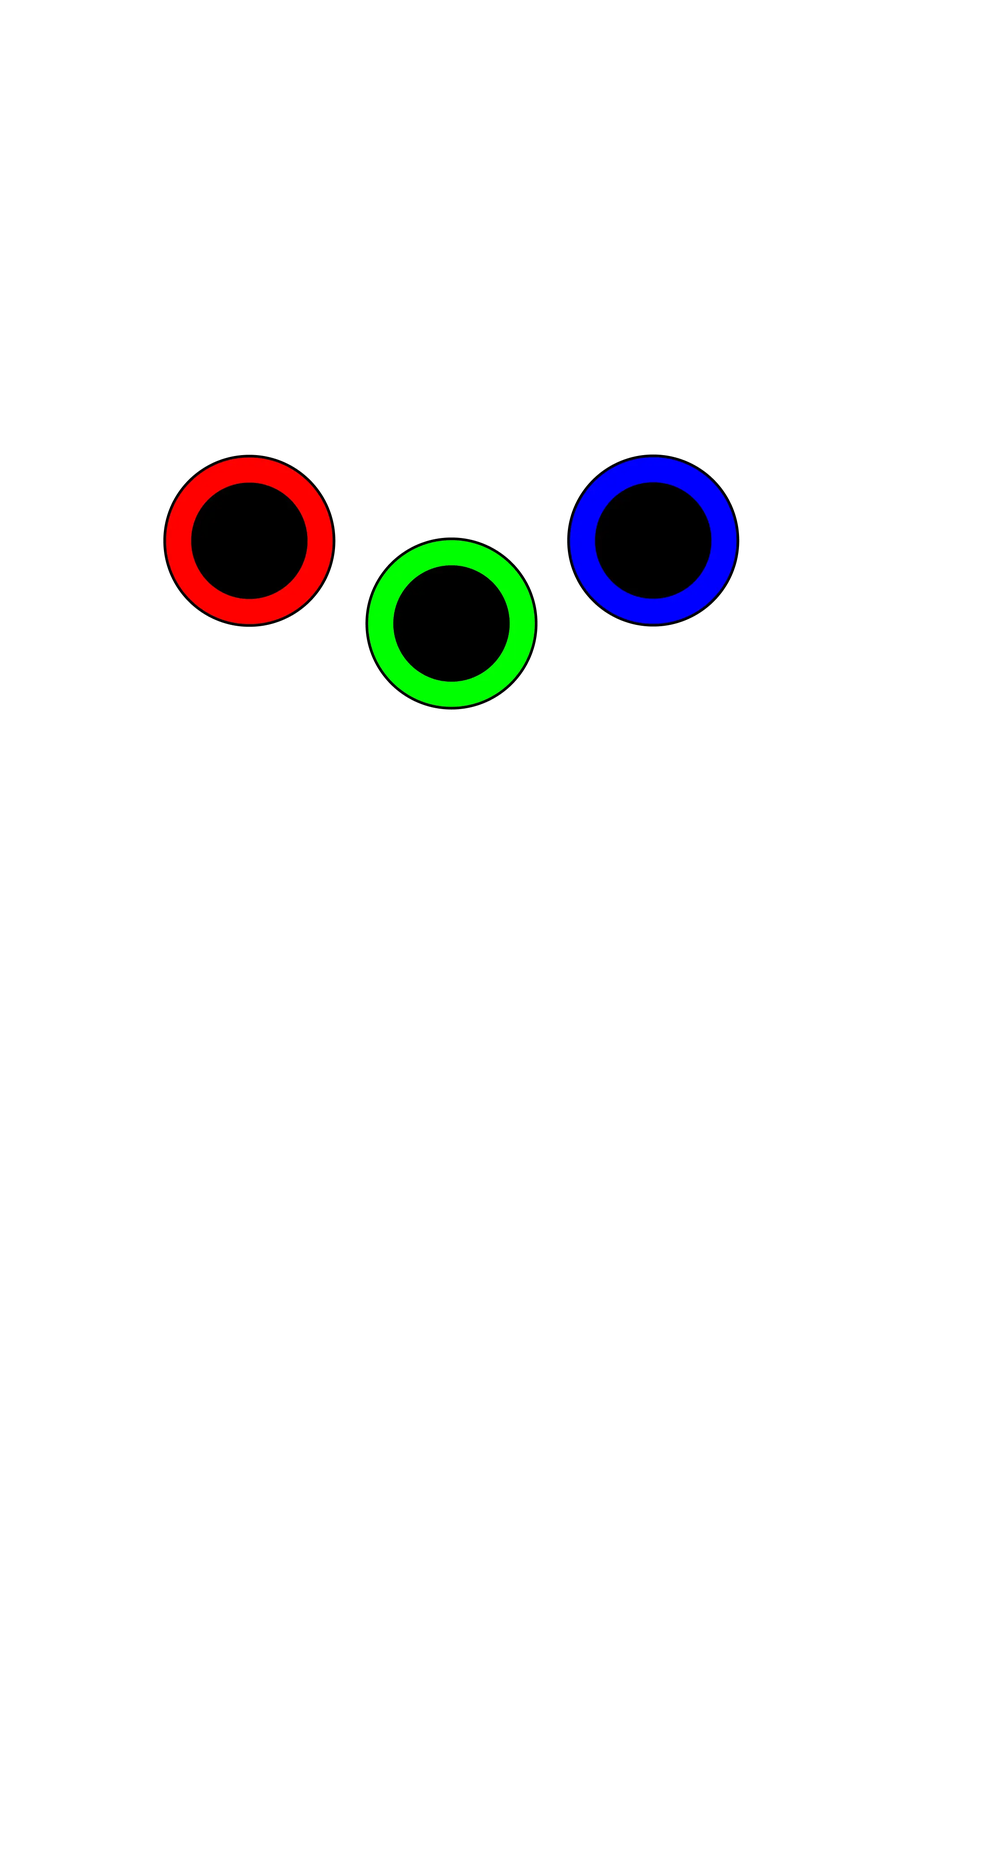
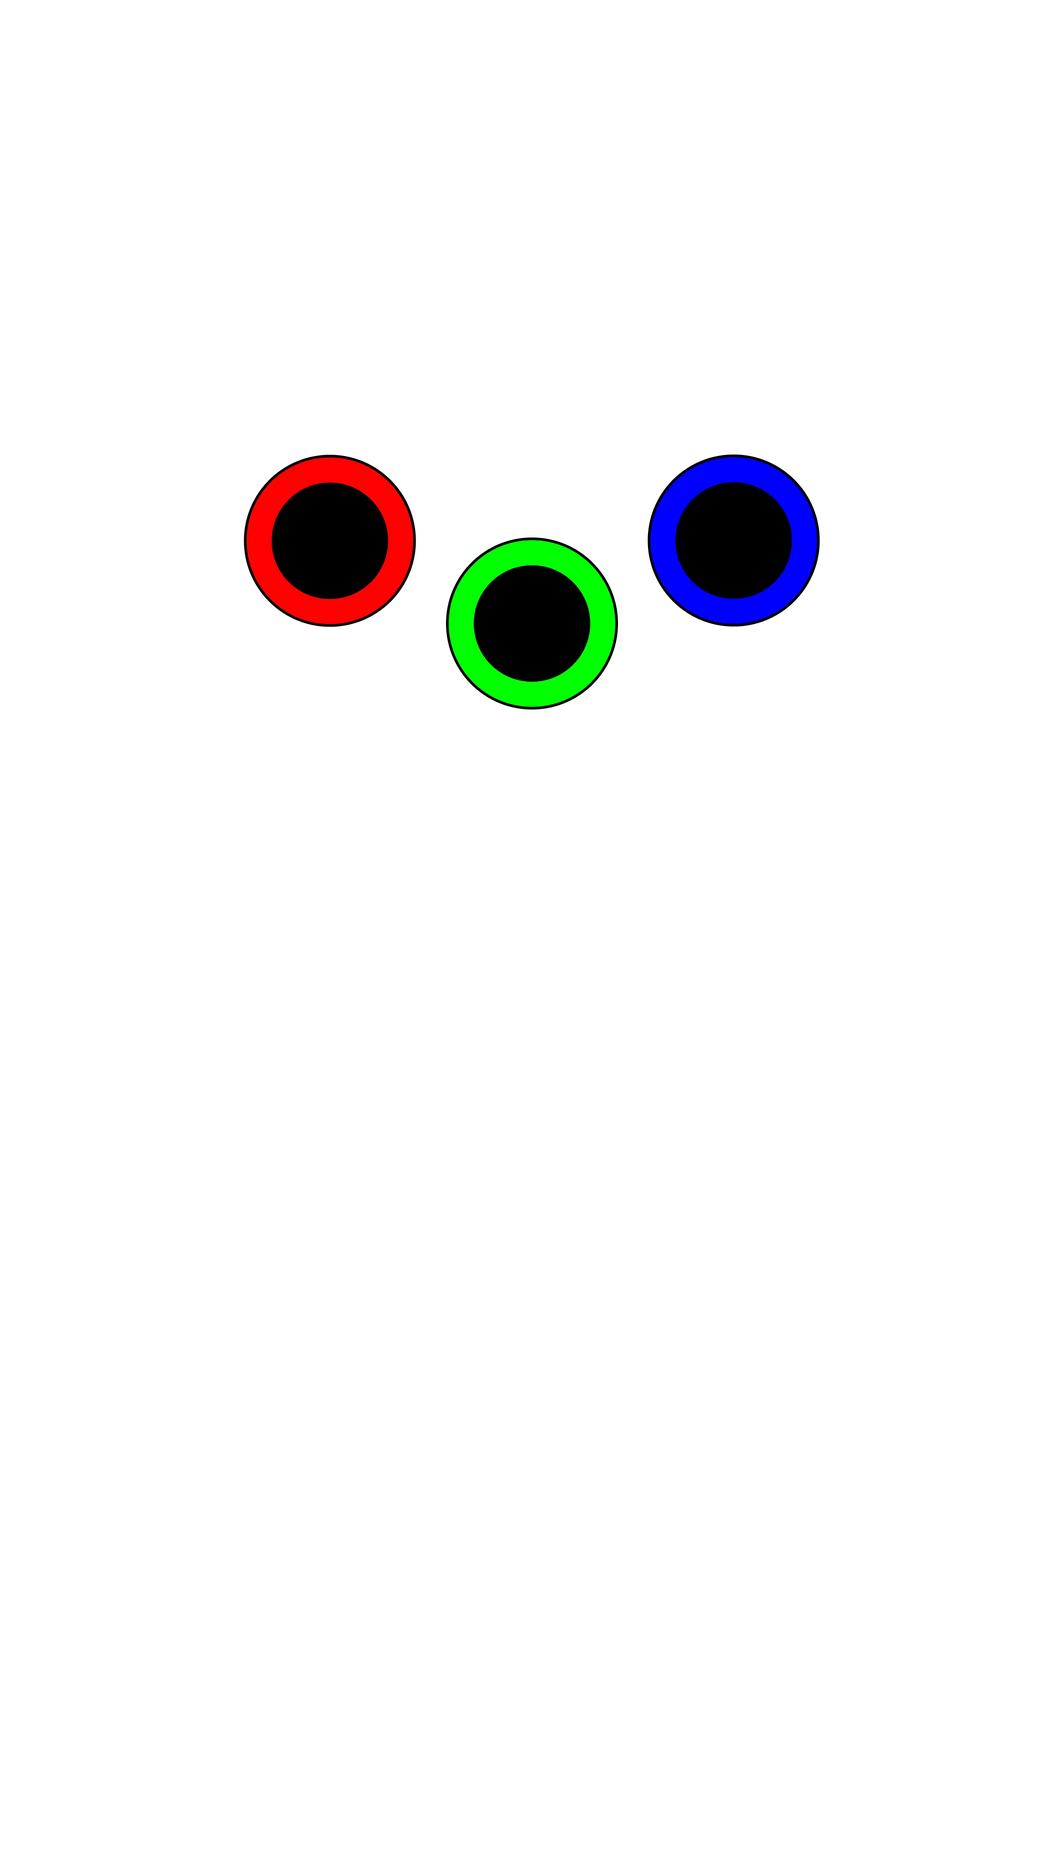
Layers overhauls, realigned Things, added exp light layer

Changed region(s): [[0.1548, 0.2183, 0.7738, 0.4055]]

diff --git a/src/lib/tables/now/index.ts b/src/lib/tables/now/index.ts
@@ -39,8 +39,8 @@ export default class Now extends Table {
     this.things = {},
 
     this.config = {
-      bounds: new Rect(-256, 970, 256, 0),
-      ballRad: 13,
+      bounds: new Rect(-256, 898, 256, 0),
+      ballRad: 16,
       gravity: 2000,
     };
 
@@ -112,9 +112,9 @@ export default class Now extends Table {
     // Vars
 
     let ballRad     = this.config.ballRad;
-    let lampRad     = 12;
+    let lampRad     = 10;
     let rolloverRad = 6;
-    let postRad     = 8;
+    let postRad     = 7;
     let targetRad   = 2;
 
 
@@ -125,10 +125,10 @@ export default class Now extends Table {
     const W = this.config.bounds.w;
     const H = this.config.bounds.h;
 
-    const TL = L + 10;       // leftmost position excluding outer wall
-    const TR = R - 54;       // rightmost position excluding chute
+    const TL = L + 48;       // leftmost position excluding outer wall
+    const TR = R - 50;       // rightmost position excluding chute
     const TW = TR - TL;      // width of playfield
-    const M  = L + TW/2 + 11; // middle line of playfield (fudged)
+    const M  = 0;            // middle of playfield
 
     const BALL_DROP_POSITION = Vec2.fromXY(TR + ballRad, 120);
 
@@ -147,47 +147,47 @@ export default class Now extends Table {
 
     //
     // Playfield Elements
-    // TODO: adjust positioning to correct for perspective in the graphic
     //
 
     // Outer walls
 
-    let greatRadius = (W - 10)/2
+    let greatRadius = (W - 48)/2
 
-    Collider(`topwall`,             Arc.at(0, TT - greatRadius + 5, 5, greatRadius, TAU*8/16, TAU*0/16));
-    Collider(`leftwall`,            Capsule.from(TL - 5, 0, TL - 5, TT - greatRadius, 5));
-    Collider(`rightwall_inner_btm`, Capsule.from(TR + 5, 0, TR + 5, 440, 5));
-    Collider(`rightwall_inner_top`, Capsule.from(TR + 5, 517, TR + 5, TT - greatRadius, 5));
-    Collider(`rightwall_inner_arc`, Arc.at(TR - 188, TT - greatRadius, 5, 193, TAU*1/8, 0));
+    Collider(`stopper`, Capsule.at(TL + 52, TT - 92, 15, 9, TAU*13/32), 2);
+    Gate(`launch_gate`, Capsule.at(TR - 28, TT - 88, 8, 35, TAU*23/63), Vec2.at(1, -1).norm());
+
+    Collider(`topwall`,             Arc.at(19, TT - greatRadius + 5, 5, greatRadius, TAU*8/16, TAU*0/16));
+    Collider(`leftwall`,            Capsule.from(TL - 5, 0, TL - 5, TT - greatRadius + 5, 5));
+    Collider(`rightwall_inner_btm`, Capsule.from(TR + 5, 0, TR + 5, 408, 5));
+    Collider(`rightwall_inner_top`, Capsule.from(TR + 5, 477, TR + 5, TT - greatRadius + 5, 5));
+    Collider(`rightwall_inner_arc`, Arc.at(TR - 173, TT - greatRadius + 5, 5, 178, TAU*1/8, 0));
 
 
     // Launch chute
 
-    let launcher = Launcher(`launcher`, Capsule.at(R - 30, 120, ballRad+2, 36), Vec2.at(0, LAUNCH_STRENGTH));
-    Collider(`chute_wall`,   Capsule.from(R - 5, 0, R - 5, TT - greatRadius, 5));
-    Collider(`chute_bottom`, Capsule.at(R - 30, 90, 9, 20, TAU/4));
-    Collider(`stopper`, Capsule.at(TL + 56, TT - 100, 16, 10, TAU*13/32), 2);
-    Gate(`launch_gate`, Capsule.at(TR - 32, TT - 97, 8, 32, TAU*23/63), Vec2.at(1, -1).norm());
+    let launcher = Launcher(`launcher`, Capsule.at(R - 25, 105, ballRad+2, 26), Vec2.at(0, LAUNCH_STRENGTH));
+    Collider(`chute_wall`,   Capsule.from(R - 5, 0, R - 5, TT - greatRadius + 5, 5));
+    Collider(`chute_bottom`, Capsule.at(R - 25, 82, 8, 26, TAU/4));
 
 
     // Upper lanes
 
-    let laneStride = 52;
+    let laneStride = 48;
 
     let laneRollovers = [];
     let laneLamps     = [];
 
     for (let z = -2; z <= 2; z++) {
       let x = M + laneStride * z;
-      Collider(`upper_lane_guard_${z+2}`, Capsule.at(x, TT - 164, 10, 44, 0));
+      Collider(`upper_lane_guard_${z+2}`, Capsule.at(x, TT - 152, 10, 39, 0));
     }
 
     for (let z = -1.5; z <= 1.5; z++) {
       let x = M + laneStride * z;
       let ix = z + 1.5;
 
-      let roll = Rollover(`upper_lane_rollover_${ix}`, Capsule.from(x, TT - 145, x, TT - 193, rolloverRad));
-      let lamp = Lamp(`upper_lane_lamp_${ix}`, Circle.at(x, TT - 117, lampRad), Color.fromTw('lime-800'), Color.fromTw('lime-400'));
+      let roll = Rollover(`upper_lane_rollover_${ix}`, Capsule.from(x, TT - 134, x, TT - 178, rolloverRad));
+      let lamp = Lamp(`upper_lane_lamp_${ix}`, Circle.at(x, TT - 108, lampRad), Color.fromTw('lime-800'), Color.fromTw('lime-400'));
 
       laneRollovers[ix] = roll;
       laneLamps[ix]     = lamp;
@@ -198,25 +198,25 @@ export default class Now extends Table {
 
     // Upper targets and edge guards
 
-    Collider(`upper_guard_left_a`,   Circle.at(TL + 46, 803, postRad));
-    Collider(`upper_guard_left_b`,  Capsule.at(TL + 20, 712, 5, 92));
+    Collider(`upper_guard_left_a`,   Circle.at(TL + 42.5, 742.5, postRad));
+    Collider(`upper_guard_left_b`,  Capsule.at(TL + 19, 662, 6, 91));
 
-    Collider(`upper_guard_right_a`, Capsule.at(TR - 21, 712, 5, 92));
-    Collider(`upper_guard_right_b`, Fence.at([TR - 53, 842, TR - 64, 820, TR - 50, 795], 5));
+    Collider(`upper_guard_right_a`, Capsule.at(TR - 19, 662, 6, 91));
+    Collider(`upper_guard_right_b`, Fence.at([TR - 50, 782, TR - 60, 760, TR - 47, 735], 5));
 
     // Main Bumpers
 
-    Deco(`bumper_deco_left`,  Circle.at(M - 105, 690, 44), Color.fromTw('slate-700'));
-    Deco(`bumper_deco_mid`,   Circle.at(M      , 647, 44), Color.fromTw('slate-700'));
-    Deco(`bumper_deco_right`, Circle.at(M + 105, 690, 44), Color.fromTw('slate-700'));
+    Deco(`bumper_deco_left`,  Circle.at(M - 97, 638, 41), Color.fromTw('slate-700'));
+    Deco(`bumper_deco_mid`,   Circle.at(M     , 598, 41), Color.fromTw('slate-700'));
+    Deco(`bumper_deco_right`, Circle.at(M + 97, 639, 41), Color.fromTw('slate-700'));
 
-    let bumperLeft  = Bumper(`bumper_left`,  Circle.at(M + 105, 690, 29), BUMPER_STRENGTH);
-    let bumperMid   = Bumper(`bumper_mid`,   Circle.at(M      , 647, 29), BUMPER_STRENGTH);
-    let bumperRight = Bumper(`bumper_right`, Circle.at(M - 105, 690, 29), BUMPER_STRENGTH);
+    let bumperLeft  = Bumper(`bumper_left`,  Circle.at(M + 97, 638, 27), BUMPER_STRENGTH);
+    let bumperMid   = Bumper(`bumper_mid`,   Circle.at(M     , 598, 27), BUMPER_STRENGTH);
+    let bumperRight = Bumper(`bumper_right`, Circle.at(M - 97, 638, 27), BUMPER_STRENGTH);
 
-    let lamp_bumperLeft  = Lamp(`bumper_lamp_left`,  Circle.at(M + 105, 690, 22), Color.fromTw('yellow-700'), Color.fromTw('yellow-400'));
-    let lamp_bumperMid   = Lamp(`bumper_lamp_mid`,   Circle.at(M      , 647, 22), Color.fromTw('yellow-700'), Color.fromTw('yellow-400'));
-    let lamp_bumperRight = Lamp(`bumper_lamp_right`, Circle.at(M - 105, 690, 22), Color.fromTw('yellow-700'), Color.fromTw('yellow-400'));
+    let lamp_bumperLeft  = Lamp(`bumper_lamp_left`,  Circle.at(M + 97, 638, 20), Color.fromTw('yellow-700'), Color.fromTw('yellow-400'));
+    let lamp_bumperMid   = Lamp(`bumper_lamp_mid`,   Circle.at(M     , 598, 20), Color.fromTw('yellow-700'), Color.fromTw('yellow-400'));
+    let lamp_bumperRight = Lamp(`bumper_lamp_right`, Circle.at(M - 97, 638, 20), Color.fromTw('yellow-700'), Color.fromTw('yellow-400'));
 
     on(bumperLeft,  EventType.BOUNCED, () => state.score += lamp_bumperLeft.state.active  ? 10 : 1);
     on(bumperMid,   EventType.BOUNCED, () => state.score += lamp_bumperMid.state.active   ? 10 : 1);
@@ -243,59 +243,59 @@ export default class Now extends Table {
       multiplier: 0,
     }
 
-    let dt_width  = 17;
-    let dt_stride = 32;
+    let dt_width  = 16;
+    let dt_stride = 29.6;
 
     for (let i = -1.5; i <= 1.5; i++) {
-      let xl = M - 121 + dt_stride * i;
-      let xr = M + 121 + dt_stride * i;
+      let xl = M - 112 + dt_stride * i;
+      let xr = M + 112 + dt_stride * i;
       let ix = i + 1.5;
 
-      redBank.targets[ix]   = DropTarget(`dt_left_bank_${i+1.5}`,  Capsule.from(xl + dt_width/2, 539.5, xl - dt_width/2, 539.5, 3.5));
-      whiteBank.targets[ix] = DropTarget(`dt_right_bank_${i+1.5}`, Capsule.from(xr + dt_width/2, 539.5, xr - dt_width/2, 539.5, 3.5));
+      redBank.targets[ix]   = DropTarget(`dt_left_bank_${i+1.5}`,  Capsule.from(xl + dt_width/2, 499, xl - dt_width/2, 499, 3));
+      whiteBank.targets[ix] = DropTarget(`dt_right_bank_${i+1.5}`, Capsule.from(xr + dt_width/2, 499, xr - dt_width/2, 499, 3));
     }
 
-    redBank.lamp   = Lamp(`dt_lamp_red`,   Circle.at(M - 155, 574, 25), Color.fromTw('red-900'),   Color.fromTw('red-500'))
-    whiteBank.lamp = Lamp(`dt_lamp_white`, Circle.at(M + 155, 574, 25), Color.fromTw('gray-600'), Color.fromTw('gray-100'))
+    redBank.lamp   = Lamp(`dt_lamp_red`,   Circle.at(M - 140, 533, 25), Color.fromTw('red-900'),   Color.fromTw('red-500'))
+    whiteBank.lamp = Lamp(`dt_lamp_white`, Circle.at(M + 140, 533, 25), Color.fromTw('gray-600'), Color.fromTw('gray-100'))
 
-    Bumper(`dt_ss_left`,   Capsule.at(M - 123, 585, 5, 100,  TAU*22/125), SLINGS_STRENGTH);
-    Bumper(`dt_ss_right`,  Capsule.at(M + 123, 585, 5, 100, -TAU*22/125), SLINGS_STRENGTH);
-    Collider(`dt_bank_left`,  Fence.at([ M - 178, 554, M - 177, 610, M - 69, 554 ], 5).close());
-    Collider(`dt_bank_right`, Fence.at([ M + 178, 554, M + 177, 610, M + 69, 554 ], 5).close());
+    Bumper(`dt_ss_left`,   Capsule.at(M - 112, 541, 5, 100,  TAU*22/125), SLINGS_STRENGTH);
+    Bumper(`dt_ss_right`,  Capsule.at(M + 112, 541, 5, 100, -TAU*22/125), SLINGS_STRENGTH);
+    Collider(`dt_bank_left`,  Fence.at([ M - 165, 512, M - 165, 566, M - 63, 512 ], 5).close());
+    Collider(`dt_bank_right`, Fence.at([ M + 165, 512, M + 165, 566, M + 63, 512 ], 5).close());
 
 
     // Midfield rollovers
 
-    let midROL = Rollover(`mid_rollover_left`,   Capsule.at(TL + 22, 582, rolloverRad, 45));
-    let midROR = Rollover(`mid_rollover_right`,  Capsule.at(TR - 22, 582, rolloverRad, 45));
-    let midROLampL = Lamp(`mid_rollover_lamp_left`,  Circle.at(TL + 48, 655, lampRad), Color.fromTw('rose-800'), Color.fromTw('rose-400'));
-    let midROLampR = Lamp(`mid_rollover_lamp_right`, Circle.at(TR - 48, 655, lampRad), Color.fromTw('lime-800'), Color.fromTw('lime-400'));
+    let midROL = Rollover(`mid_rollover_left`,   Capsule.at(TL + 20, 538, rolloverRad, 43));
+    let midROR = Rollover(`mid_rollover_right`,  Capsule.at(TR - 20, 538, rolloverRad, 43));
+    let midROLampL = Lamp(`mid_rollover_lamp_left`,  Circle.at(TL + 44, 606, lampRad), Color.fromTw('rose-800'), Color.fromTw('rose-400'));
+    let midROLampR = Lamp(`mid_rollover_lamp_right`, Circle.at(TR - 44, 606, lampRad), Color.fromTw('lime-800'), Color.fromTw('lime-400'));
 
 
     // Midfield guards (vertical part is just main wall)
 
-    Collider(`mid_guard_left_top`,  Arc.at(TL + 36, 627, 2, 38, TAU*3/16, TAU*5/16));
-    Collider(`mid_guard_left_btm`,  Arc.at(TL + 36, 548, 2, 38, TAU*5/32, TAU*8/16));
-    Collider(`mid_guard_right_top`, Arc.at(TR - 36, 627, 2, 38, TAU*6/32, TAU*0/32));
-    Collider(`mid_guard_right_btm`, Arc.at(TR - 36, 548, 2, 38, TAU*6/32, TAU*26/32));
-    Collider(`mid_guard_right_end`, Capsule.from(TR - 21, 513, TR + 2, 513, 2));
+    Collider(`mid_guard_left_top`,  Arc.at(TL + 36, 579, 2, 38, TAU*3/16, TAU*5/16));
+    Collider(`mid_guard_left_btm`,  Arc.at(TL + 36, 509, 2, 38, TAU*5/32, TAU*8/16));
+    Collider(`mid_guard_right_top`, Arc.at(TR - 36, 579, 2, 38, TAU*6/32, TAU*0/32));
+    Collider(`mid_guard_right_btm`, Arc.at(TR - 36, 509, 2, 38, TAU*6/32, TAU*26/32));
+    Collider(`mid_guard_right_end`, Capsule.from(TR - 21, 474, TR + 2, 474, 2));
 
 
     // Static Targets
 
-    let tgtTopLeft  = Target(`tgt_top_left`,  Capsule.at(TL + 34, 778, targetRad, 24, TAU*59/64));
-    let tgtMidLeft  = Target(`tgt_mid_left`,  Capsule.at(TL + 36, 457, targetRad, 24, TAU*29/64));
-    let tgtBtmLeft  = Target(`tgt_btm_left`,  Capsule.at(TL + 27, 409, targetRad, 24, TAU*29/64));
-    let tgtTopRight = Target(`tgt_top_right`, Capsule.at(TR - 34, 778, targetRad, 24, -TAU*59/64));
-    let tgtMidRight = Target(`tgt_mid_right`, Capsule.at(TR - 36, 457, targetRad, 24, TAU*35/64));
-    let tgtBtmRight = Target(`tgt_btm_right`, Capsule.at(TR - 27, 409, targetRad, 24, TAU*35/64));
+    let tgtTopLeft  = Target(`tgt_top_left`,  Capsule.at(TL + 34, 718, targetRad, 24, TAU*59/64));
+    let tgtMidLeft  = Target(`tgt_mid_left`,  Capsule.at(TL + 34, 427, targetRad, 24, TAU*29/64));
+    let tgtBtmLeft  = Target(`tgt_btm_left`,  Capsule.at(TL + 25, 379, targetRad, 24, TAU*29/64));
+    let tgtTopRight = Target(`tgt_top_right`, Capsule.at(TR - 34, 718, targetRad, 24, -TAU*59/64));
+    let tgtMidRight = Target(`tgt_mid_right`, Capsule.at(TR - 34, 427, targetRad, 24, TAU*35/64));
+    let tgtBtmRight = Target(`tgt_btm_right`, Capsule.at(TR - 25, 379, targetRad, 24, TAU*35/64));
 
-    let lamp_tgtTopLeft  = Lamp(`tgt_lamp_top_left`,  Circle.at(TL + 49, 740, lampRad), Color.fromTw('lime-800'), Color.fromTw('lime-400'));
-    let lamp_tgtMidLeft  = Lamp(`tgt_lamp_mid_left`,  Circle.at(TL + 73, 437, lampRad), Color.fromTw('lime-800'), Color.fromTw('lime-400'));
-    let lamp_tgtBtmLeft  = Lamp(`tgt_lamp_btm_left`,  Circle.at(TL + 67, 389, lampRad), Color.fromTw('lime-800'), Color.fromTw('lime-400'));
-    let lamp_tgtTopRight = Lamp(`tgt_lamp_top_right`, Circle.at(TR - 49, 740, lampRad), Color.fromTw('lime-800'), Color.fromTw('lime-400'));
-    let lamp_tgtMidRight = Lamp(`tgt_lamp_mid_right`, Circle.at(TR - 73, 437, lampRad), Color.fromTw('lime-800'), Color.fromTw('lime-400'));
-    let lamp_tgtBtmRight = Lamp(`tgt_lamp_btm_right`, Circle.at(TR - 67, 389, lampRad), Color.fromTw('lime-800'), Color.fromTw('lime-400'));
+    let lamp_tgtTopLeft  = Lamp(`tgt_lamp_top_left`,  Circle.at(TL + 45, 685, lampRad), Color.fromTw('lime-800'), Color.fromTw('lime-400'));
+    let lamp_tgtMidLeft  = Lamp(`tgt_lamp_mid_left`,  Circle.at(TL + 67, 404, lampRad), Color.fromTw('lime-800'), Color.fromTw('lime-400'));
+    let lamp_tgtBtmLeft  = Lamp(`tgt_lamp_btm_left`,  Circle.at(TL + 62, 360, lampRad), Color.fromTw('lime-800'), Color.fromTw('lime-400'));
+    let lamp_tgtTopRight = Lamp(`tgt_lamp_top_right`, Circle.at(TR - 45, 685, lampRad), Color.fromTw('lime-800'), Color.fromTw('lime-400'));
+    let lamp_tgtMidRight = Lamp(`tgt_lamp_mid_right`, Circle.at(TR - 67, 404, lampRad), Color.fromTw('lime-800'), Color.fromTw('lime-400'));
+    let lamp_tgtBtmRight = Lamp(`tgt_lamp_btm_right`, Circle.at(TR - 62, 360, lampRad), Color.fromTw('lime-800'), Color.fromTw('lime-400'));
 
     on(tgtTopLeft,  EventType.BOUNCED, () => state.score += lamp_tgtTopLeft.state.active  ? 300 : 50);
     on(tgtMidLeft,  EventType.BOUNCED, () => state.score += lamp_tgtMidLeft.state.active  ? 300 : 50);
@@ -307,60 +307,60 @@ export default class Now extends Table {
 
     // Lower Guards
 
-    Collider(`lower_guard_left_top`,       Capsule.at(TL + 28, 497, 8, 45, TAU*18/127));
-    Collider(`lower_guard_left_mid`,       Circle.at(TL + 30, 433, postRad));
+    Collider(`lower_guard_left_top`,       Capsule.at(TL + 23, 463, 8, 45, TAU*18/127));
+    Collider(`lower_guard_left_mid`,       Circle.at(TL + 29, 403, postRad));
 
-    Collider(`lower_guard_right_top_ang`,  Capsule.from(TR - 44, 484, TR + 5, 440, 6));
-    Collider(`lower_guard_right_mid`,      Circle.at(TR - 30, 433, postRad));
+    Collider(`lower_guard_right_top_ang`,  Capsule.from(TR - 40, 447, TR + 4, 408, 6));
+    Collider(`lower_guard_right_mid`,      Circle.at(TR - 29, 403, postRad));
 
 
     // Outlane rollovers
 
-    let outROL = Rollover(`out_rollover_left`,  Capsule.from(M - 165, 212, M - 165, 246, rolloverRad));
-    let outROR = Rollover(`out_rollover_right`, Capsule.from(M + 165, 212, M + 165, 246, rolloverRad));
-    let outLampL = Lamp(`out_rollover_lamp_left`,  Circle.at(M - 127, 329, lampRad), Color.fromTw('rose-800'), Color.fromTw('rose-400'));
-    let outLampR = Lamp(`out_rollover_lamp_right`, Circle.at(M + 127, 329, lampRad), Color.fromTw('lime-800'), Color.fromTw('lime-400'));
+    let outROL = Rollover(`out_rollover_left`,  Capsule.from(M - 153, 196, M - 153, 228, rolloverRad));
+    let outROR = Rollover(`out_rollover_right`, Capsule.from(M + 153, 196, M + 153, 228, rolloverRad));
+    let outLampL = Lamp(`out_rollover_lamp_left`,  Circle.at(M - 117, 304, lampRad), Color.fromTw('rose-800'), Color.fromTw('rose-400'));
+    let outLampR = Lamp(`out_rollover_lamp_right`, Circle.at(M + 117, 304, lampRad), Color.fromTw('lime-800'), Color.fromTw('lime-400'));
 
 
     // Outlane kickers and rails
 
-    let kickROL = Rollover(`kicker_left_score_ro`,  Capsule.at(TL + 22, 240, rolloverRad, 30));
-    Bumper(`kicker_left`, Capsule.at(TL + 23, 208, 6, 20, TAU/4), KICKER_STRENGTH);
+    let kickROL = Rollover(`kicker_left_score_ro`,  Capsule.at(TL + 20, 220, rolloverRad, 30));
+    Bumper(`kicker_left`,  Capsule.at(TL + 20, 194, 6, 25, TAU/4), KICKER_STRENGTH);
 
-    let kickROR = Rollover(`kicker_right_score_ro`, Capsule.at(TR - 22, 240, rolloverRad, 30));
-    Bumper(`kicker_right`, Capsule.at(TR - 23, 208, 7, 20, TAU/4), KICKER_STRENGTH);
+    let kickROR = Rollover(`kicker_right_score_ro`, Capsule.at(TR - 20, 220, rolloverRad, 30));
+    Bumper(`kicker_right`, Capsule.at(TR - 20, 194, 6, 25, TAU/4), KICKER_STRENGTH);
 
-    Collider(`kicker_left_post`,       Circle.at(TL + 52, 301, postRad));
-    Collider(`kicker_left_rail_arc`,   Arc.at(TL + 260, 283, postRad, 260, TAU*4/64, TAU*28/64));
-    Collider(`kicker_left_rail_outer`, Capsule.from(TL, 209, TL, 283, postRad));
-    Collider(`kicker_left_rail_inner`, Capsule.from(TL + 39, 300, TL + 39, 205, 3));
+    Collider(`kicker_left_post`,       Circle.at(TL + 46, 278, postRad));
+    Collider(`kicker_left_rail_arc`,   Arc.at(TL + 240, 264, postRad, 240, TAU*4/64, TAU*28/64));
+    Collider(`kicker_left_rail_outer`, Capsule.from(TL, 193, TL, 283, postRad));
+    Collider(`kicker_left_rail_inner`, Capsule.from(TL + 36, 280, TL + 36, 190, 3));
 
-    Collider(`kicker_right_post`,       Circle.at(TR - 52, 301, postRad));
-    Collider(`kicker_right_rail_arc`,   Arc.at(TR - 260, 283, postRad, 260, TAU*4/64, TAU*0/64));
-    Collider(`kicker_right_rail_outer`, Capsule.from(TR, 209, TR, 283, postRad));
-    Collider(`kicker_right_rail_inner`, Capsule.from(TR - 39, 300, TR - 39, 205, 3));
+    Collider(`kicker_right_post`,       Circle.at(TR - 46, 278, postRad));
+    Collider(`kicker_right_rail_arc`,   Arc.at(TR - 240, 264, postRad, 240, TAU*4/64, TAU*0/64));
+    Collider(`kicker_right_rail_outer`, Capsule.from(TR, 193, TR, 283, postRad));
+    Collider(`kicker_right_rail_inner`, Capsule.from(TR - 36, 280, TR - 36, 190, 3));
 
 
     // Lower slingshots
     // TODO: Only bounce if hit with threshold velocity
     // TODO: Move slightly out of the wal to allow ball catching
 
-    Bumper(`lower_ss_left`,  Capsule.at(M - 120, 228, 4, 44,  TAU*11/128), SLINGS_STRENGTH);
-    Bumper(`lower_ss_right`, Capsule.at(M + 120, 228, 4, 44, -TAU*11/128), SLINGS_STRENGTH);
-    Collider(`lower_ss_left_body`,  Fence.at([ M - 108, 195, M - 140, 248, M - 140, 209 ], postRad).close());
-    Collider(`lower_ss_right_body`, Fence.at([ M + 108, 195, M + 140, 248, M + 140, 209 ], postRad).close());
+    Bumper(`lower_ss_left`,  Capsule.from(M - 123, 226, M - 103, 190, 4), SLINGS_STRENGTH);
+    Bumper(`lower_ss_right`, Capsule.from(M + 123, 226, M + 103, 190, 4), SLINGS_STRENGTH);
+    Collider(`lower_ss_left_body`,  Fence.at([ M - 98, 175, M - 131, 234, M - 131, 190 ], 4).close());
+    Collider(`lower_ss_right_body`, Fence.at([ M + 98, 175, M + 131, 234, M + 131, 190 ], 4).close());
 
 
     // Flippers
 
-    let flipperRad = 12;
+    let flipperRad = 8;
     let flipperLength = 58;
     let flipperRestAngle = TAU/11;
     let flipperRange = TAU/6;
 
     let leftFlipper = Flipper(`flipper_left`,
-      M - 38 - flipperLength,
-      178,
+      M - 33 - flipperLength,
+      169,
       flipperRad,
       flipperLength,
       flipperRestAngle * -1,
@@ -368,8 +368,8 @@ export default class Now extends Table {
       FLIPPER_SPEED);
 
     let rightFlipper = Flipper(`flipper_right`,
-      M + 38 + flipperLength,
-      178,
+      M + 33 + flipperLength,
+      169,
       flipperRad,
       flipperLength,
       flipperRestAngle + TAU/2,
@@ -379,8 +379,8 @@ export default class Now extends Table {
 
     // Central drain
 
-    Collider(`drain_wall_left`,  Capsule.from(TL, 144, M - 36, 71, 8));
-    Collider(`drain_wall_right`, Capsule.from(TR, 144, M + 36, 71, 8));
+    Collider(`drain_wall_left`,  Capsule.from(TL, 132, M - 36, 65, 8));
+    Collider(`drain_wall_right`, Capsule.from(TR, 132, M + 36, 65, 8));
    
     let drain = Drain(`drain`, Box.fromRect(L, TB, TR, 0));
 

diff --git a/src/components/CanvasRenderer.svelte b/src/components/CanvasRenderer.svelte
@@ -8,7 +8,7 @@
   import Vec2   from '$lib/Vec2';
   import Color  from '$lib/Color';
 
-  import FluidBG from '$comp/FluidBG.svelte';
+  //import FluidBG from '$comp/FluidBG.svelte';
   import LayerRenderer from '$comp/LayerRenderer.svelte';
 
   import { Circle, Arc, Capsule, Fence, Box } from "$lib/Shape";
@@ -150,9 +150,11 @@
 
     // Top layer
     if (topImg) {
-      //ctx.globalAlpha = 1.5;
-      ctx.drawImage(topImg, 0, 0, width, height);
+      //ctx.globalAlpha = 0.5;
+      //ctx.globalCompositeOperation = 'color-burn';
+      //ctx.drawImage(topImg, 0, 0, width, height);
       //ctx.globalAlpha = 1.0;
+      //ctx.globalCompositeOperation = 'source-over';
     }
 
   }
@@ -174,7 +176,7 @@
   //@ts-ignore shut up
   onMount(async () => {
     ctx = canvas.getContext('2d') as CanvasRenderingContext2D; // who cares
-    //topImg = await loadImage('/plastics.png');
+    topImg = await loadImage('/alignment.png');
 
   });
 

diff --git a/notes.md b/notes.md
@@ -7,7 +7,6 @@
   - Remove string-indexing helper function, reference object by variable
 - Tilting
 - Graphics
-  - Ring mask - inner, outer, default - can probably fit on base layer
   - Outer perimeter, drain ramps, great circle, etc
   - Add left margin
   - Rework label mask as - red: indicators, green: white, blue: blue/orange
@@ -22,11 +21,15 @@
     - Frees up a channel on the label layer
     - Lamps can keep thier indicators in hyper mode
     - Add extra invisible indicators for rollover lamps
-  - Plastics white layer should include black outlines (or plastic color layer should include black cutouts)
+  - Plastic color layer should include black cutouts from white layer
   - Midfield edge rails
   - Targets and droptargets
   - Targets don't seem to line up with plastics?
   - Improve colorscheme
+  - Layers with spare channels:
+      - Lanes: green
+      - LabelText: green
+
 - Basic sound fx
 
 ## nnNOWww
